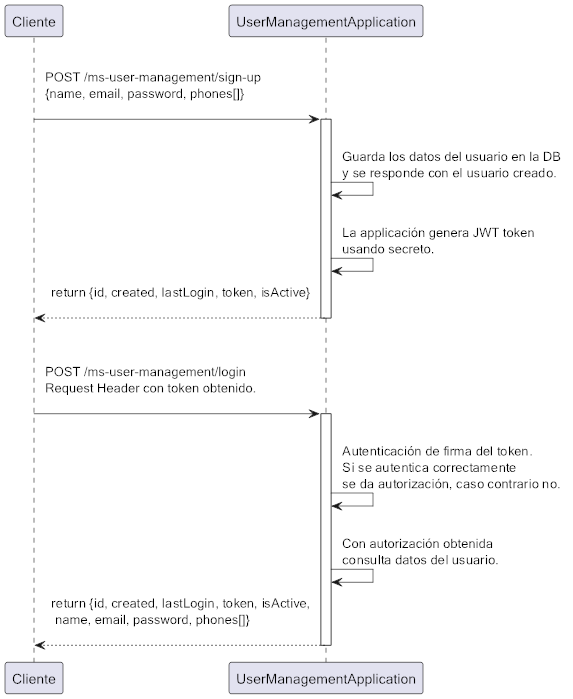
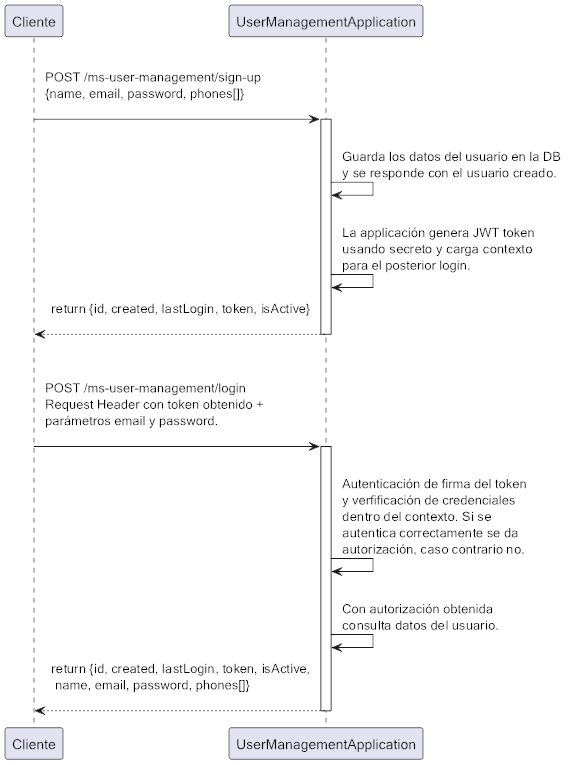
WIP:spock test

diff --git a/src/test/groovy/com/microservice/usermanagement/UserManagementApplicationTests.java b/src/test/groovy/com/microservice/usermanagement/UserManagementApplicationTests.java
@@ -1,0 +1,14 @@
+package com.microservice.usermanagement;
+
+import org.springframework.boot.test.context.SpringBootTest;
+import org.springframework.test.context.ContextConfiguration;
+import org.springframework.test.context.web.WebAppConfiguration;
+
+@ContextConfiguration(classes = UserManagementApplication.class)
+@WebAppConfiguration
+@SpringBootTest
+class UserManagementApplicationTests {
+
+    void contextLoads() {}
+
+}

diff --git a/diagrams/Diagrama de Secuencia UML.md b/diagrams/Diagrama de Secuencia UML.md
@@ -1,14 +1,11 @@
 @startuml
-Cliente -> UserManagementApplication ++: \n POST /ms-user-management/sign-up \n {name, email, password, phones[]}\n
-UserManagementApplication->UserManagementApplication: \n Guarda los datos del usuario en la DB \n y se responde con el
-usuario creado.
-UserManagementApplication->UserManagementApplication: \n La applicación genera JWT token \n usando secreto.
-UserManagementApplication --> Cliente --: return {id, created, lastLogin, token, isActive}\n
+Cliente -> UserManagementApplication ++: \n POST /ms-user-management/sign-up \n {name, email, password, phones[]}\n 
+UserManagementApplication->UserManagementApplication: \n Guarda los datos del usuario en la DB \n y se responde con el usuario creado.
+UserManagementApplication->UserManagementApplication: \n La applicación genera JWT token \n usando secreto y carga contexto \n para el posterior login.
+UserManagementApplication --> Cliente --: return {id, created, lastLogin, token, isActive}\n 
 
-Cliente -> UserManagementApplication ++: \n\n POST /ms-user-management/login \n Request Header con token obtenido.\n
-UserManagementApplication->UserManagementApplication: \n Autenticación de firma del token. \n Si se autentica
-correctamente \n se da autorización, caso contrario no.
+Cliente -> UserManagementApplication ++: \n\n POST /ms-user-management/login \n Request Header con token obtenido + \n parámetros email y password.\n 
+UserManagementApplication->UserManagementApplication: \n Autenticación de firma del token \n y verfificación de credenciales \n dentro del contexto. Si se \n autentica correctamente se da \n autorización, caso contrario no.
 UserManagementApplication->UserManagementApplication: \n Con autorización obtenida \n consulta datos del usuario.
-Cliente <-- UserManagementApplication --: return {id, created, lastLogin, token, isActive, \n name, email, password,
-phones[]}\n
+Cliente <-- UserManagementApplication --: return {id, created, lastLogin, token, isActive, \n name, email, password, phones[]}\n
 @enduml
